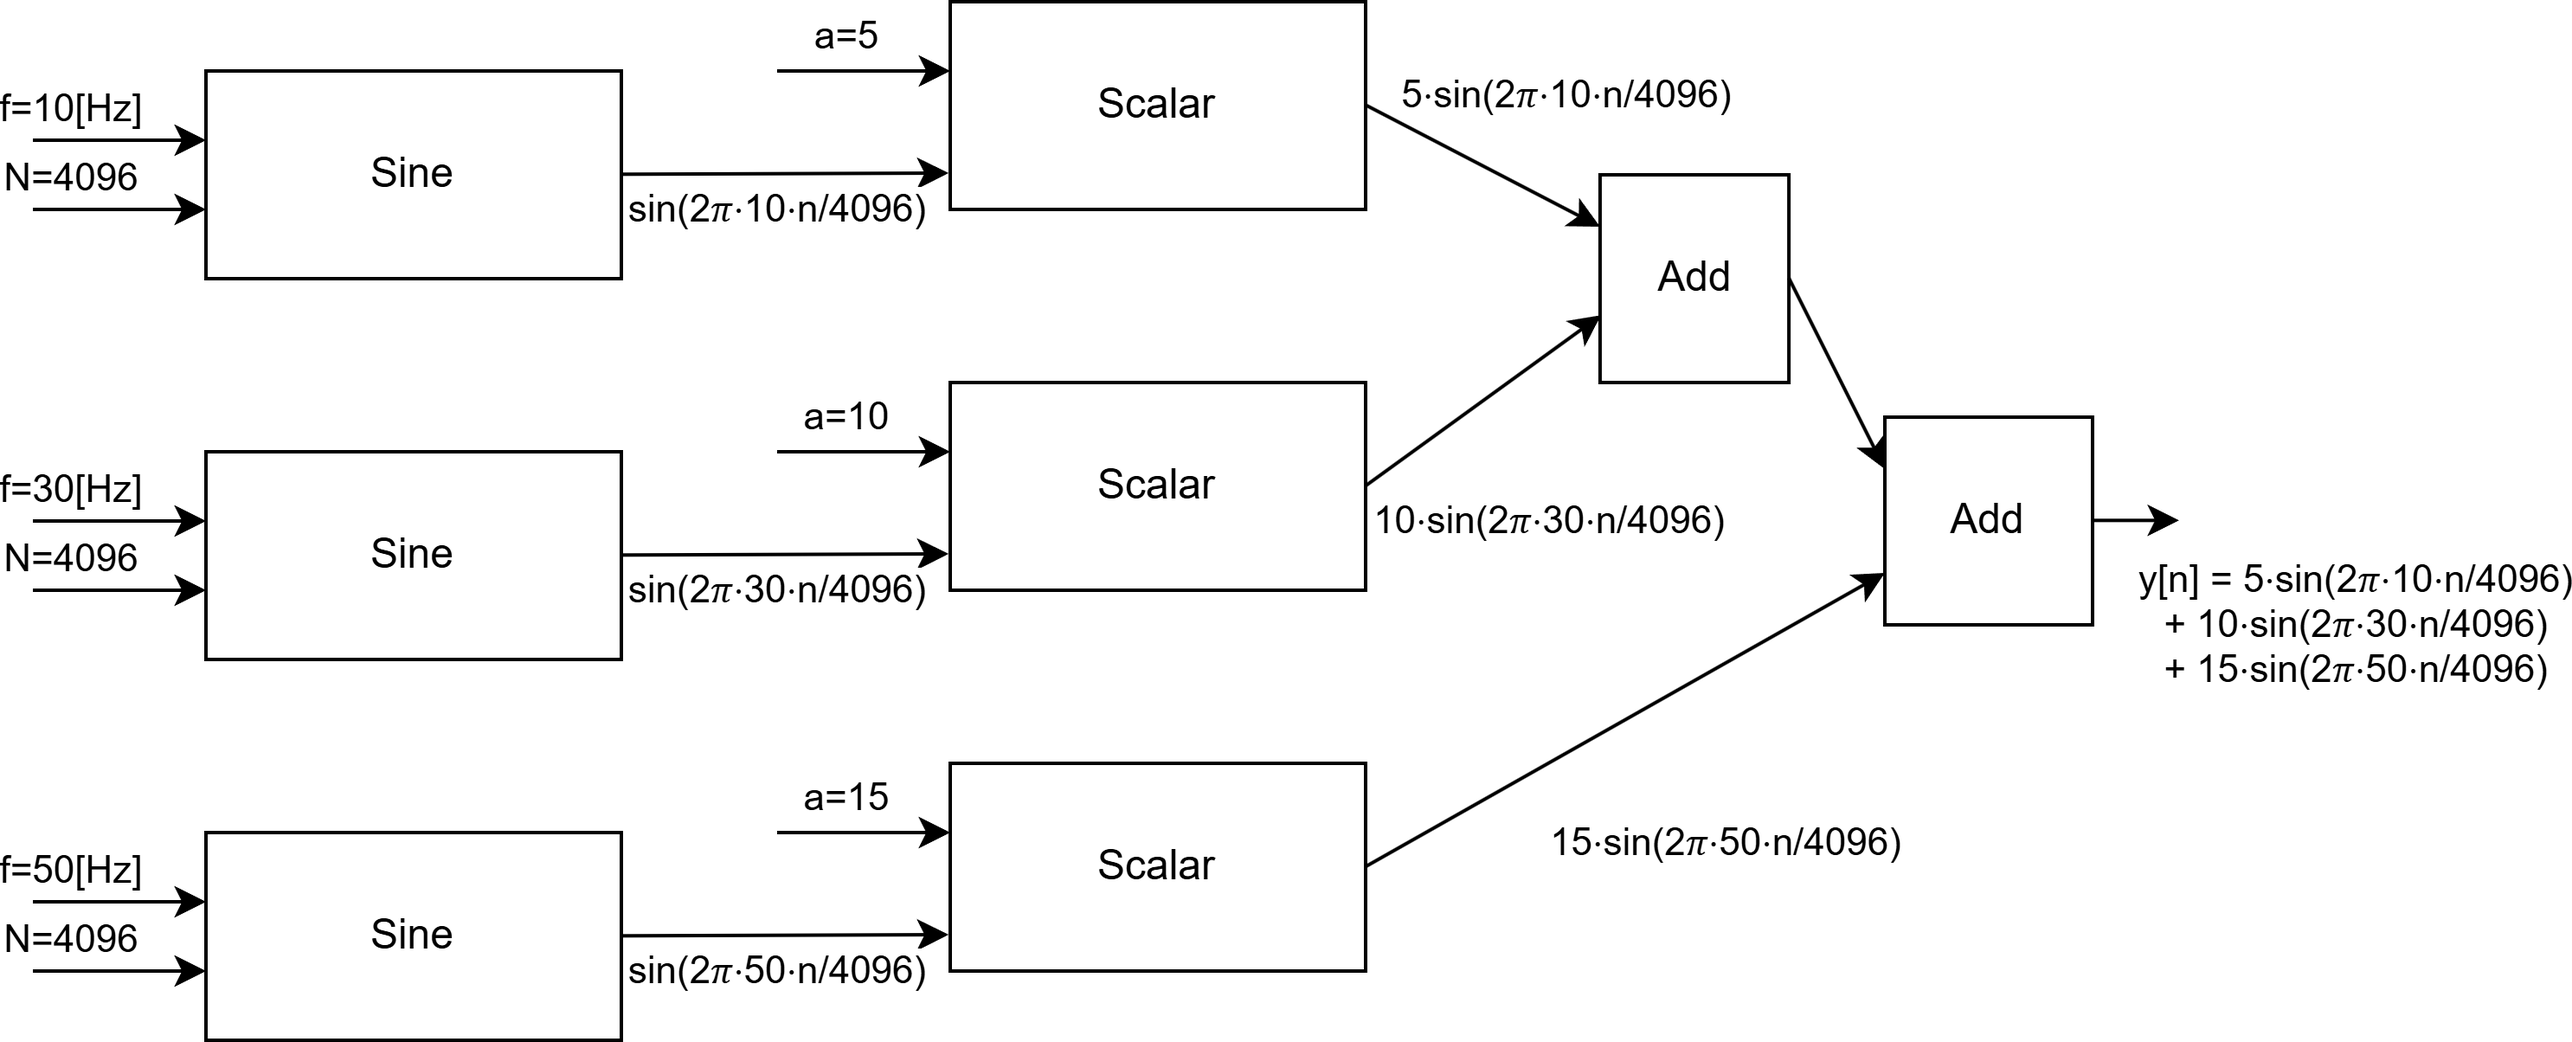
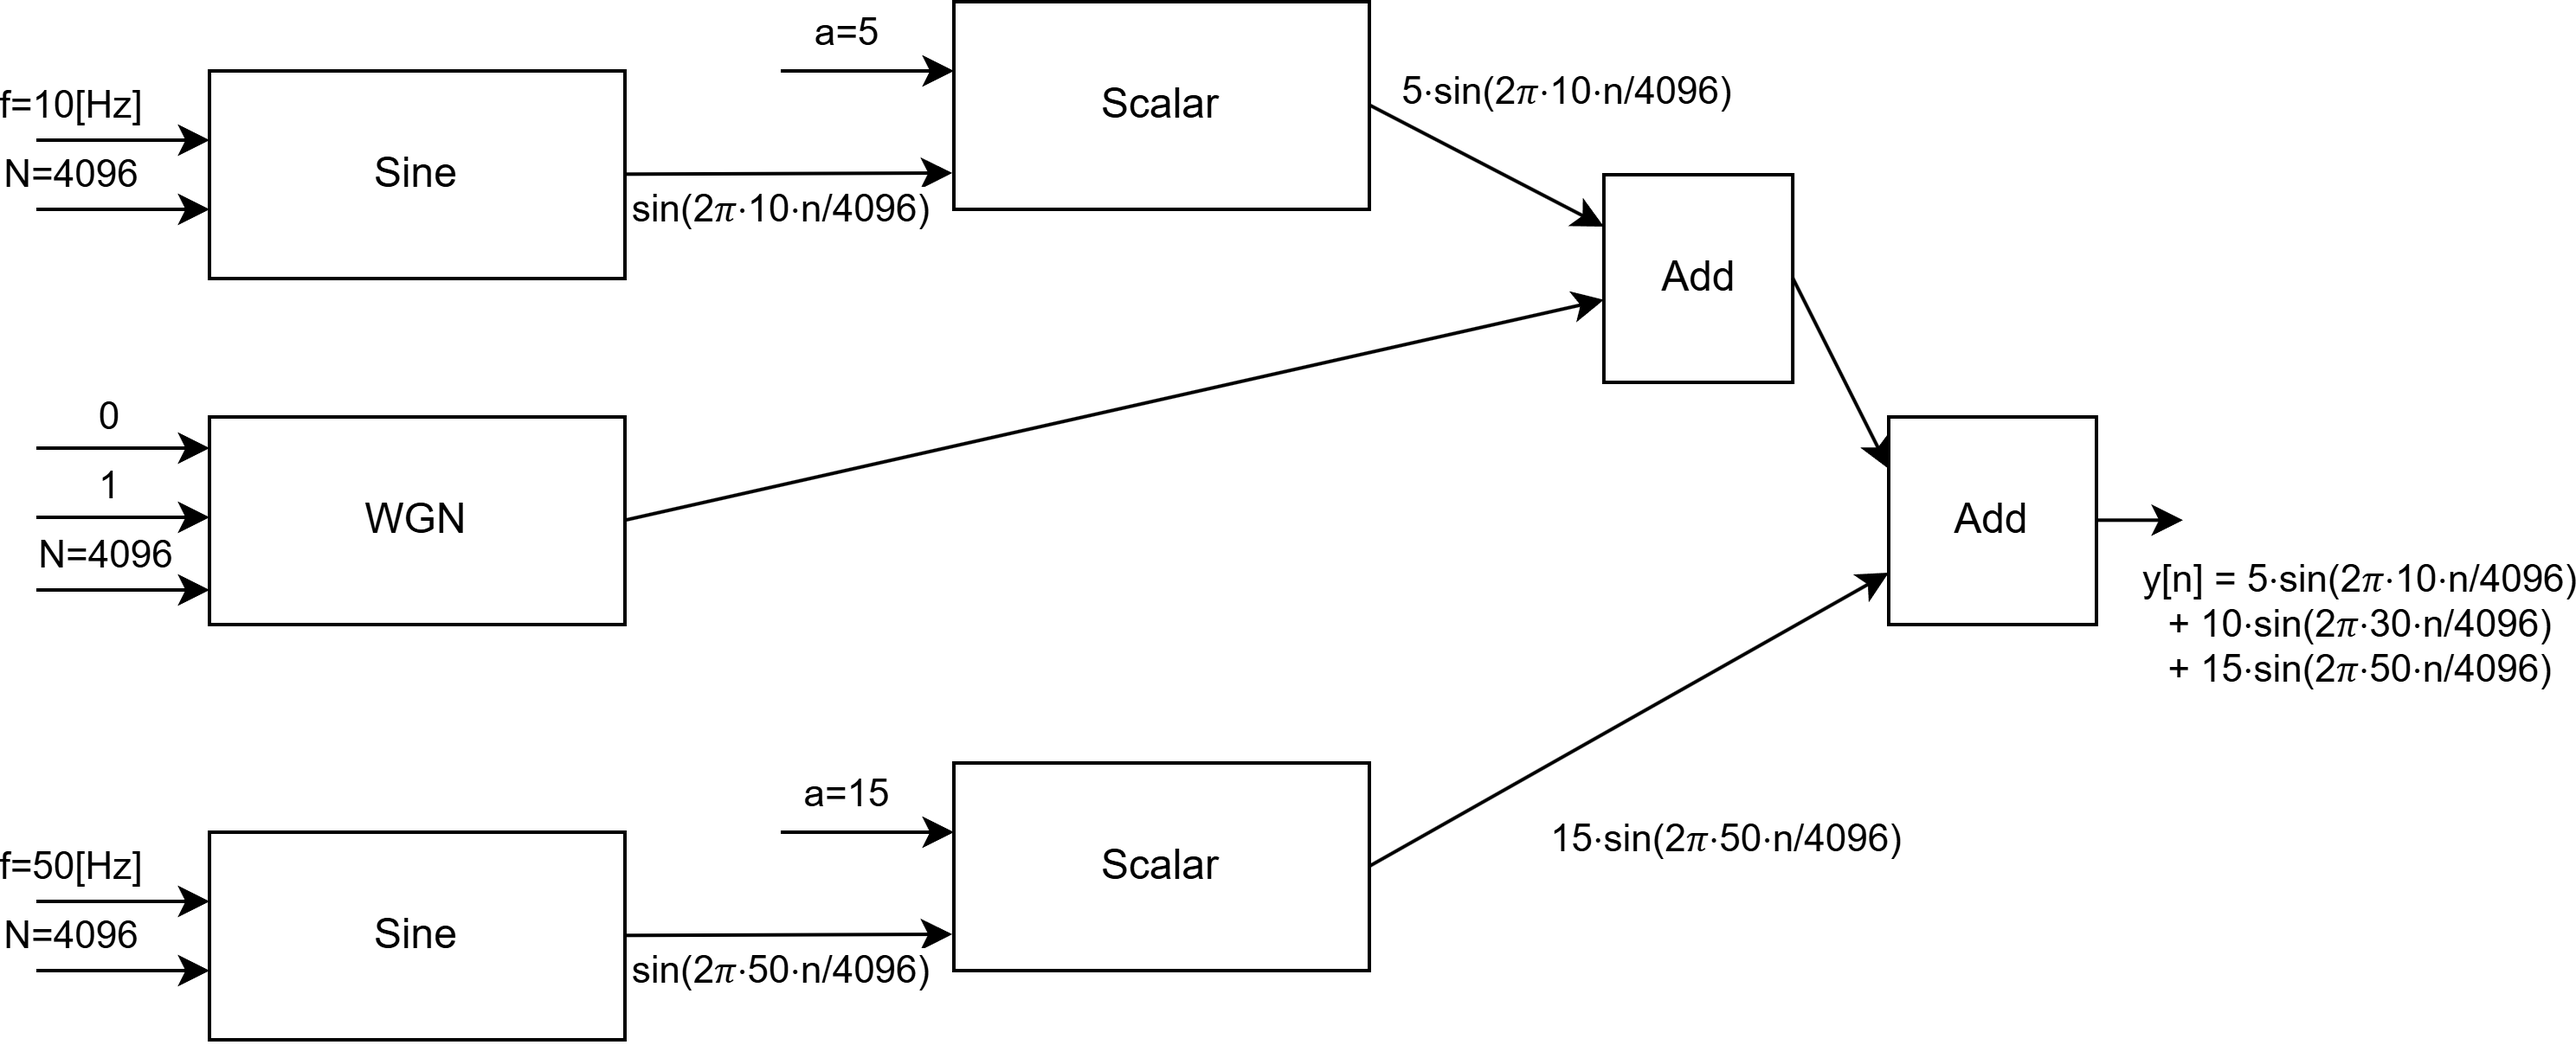
Added first example

diff --git a/main_hw2.m b/main_hw2.m
@@ -87,33 +87,69 @@ title('5 random frequencies in time domain');
 ylabel('Amplitude');
 xlabel('Time domain[sec]');
 %% Signal games
-% Signal Example 1
-% Filter the signal using threshold block in frequency domain
+% Signal Example 1 - Filtering in frequency domain
+% Filtering out WGN noise using threshold block in frequency domain.
 % 
 % Let's take a look at signals with known frequency. We have choose the
 % frequencies s.t. they fall directly on discrete frequency bins, so there
 % is no energy spread in frequency domain and we can find the expected
-% energy at each frequency bin.
-% 
-% We will consider 
-% Drawbacks - must approximate the frequency exactly.
+% energy at each frequency bin. As we have seen in class, the energy in
+% frequency domain equals to M/2 on each delta, so in order to filter out
+% WGN let choose th=$M/3$. As we can see, we have filtered out the noise.
+% In the STFT we can see some noise in high frequncies and 4 deltas at
+% +-10[Hz] and +-50[Hz] as expected.
+
 M = 2048;
 freq_domain = Fs * (-M/2:M/2-1)/M;
 figure;
 imshow(imread('blocks2\HW2-Example1.png'));
 title('Example 1 block diagram');
 
-x_n1 = y_n_f1_f5(:, 1) + 1 * y_n_f1_f5(:, 3) + 0 * y_n_f1_f5(:, 5) + noise_n';
+x_n1 = y_n_f1_f5(:, 1) + y_n_f1_f5(:, 5) + noise_n';
 W = STFT(x_n1, M);
 Wf = Threshold(abs(W), M/3);
-figure;
-plot(freq_domain, abs(fftshift(W(1, :))));
-
 xnr= ISTFT(Wf);
-figure; 
-plot(real(xnr));
 
-% imagesc(abs(fftshift(W, 2)));
-% Signal Example 2
+figure;
+nexttile;
+plot(discrete_time_domain, x_n1);
+title('Example #1, Signal in time domain');
+xlabel('Time domain [sec]');
+ylabel('Amplitude');
 
-% Signal Example 3
+nexttile;
+imagesc(abs(fftshift(W)));
+
+ticks_indices = 10:10:2048;
+
+xticks(ticks_indices);
+xticklabels(compose("%.2f", freq_domain(ticks_indices)));
+xlim(M/2 + 64 * [-1 1]);
+
+title('STFT');
+xlabel('Frequncy domain [Hz]');
+ylabel('Window index');
+colorbar;
+
+nexttile;
+plot(discrete_time_domain, real(xnr));
+title('Filtered signal');
+xlabel('Time domain [sec]');
+ylabel('Amplitude');
+
+nexttile;
+imagesc(abs(fftshift(Wf)));
+ticks_indices = 10:10:2048;
+
+xticks(ticks_indices);
+xticklabels(compose("%.2f", freq_domain(ticks_indices)));
+xlim(M/2 + 64 * [-1 1]);
+
+title('STFT after denoising');
+xlabel('Frequncy domain [Hz]');
+ylabel('Window index');
+colorbar;
+% Signal Example 2 - Filtering in time domain
+
+
+% Signal Example 3 - Filtering in frequency and time domain
